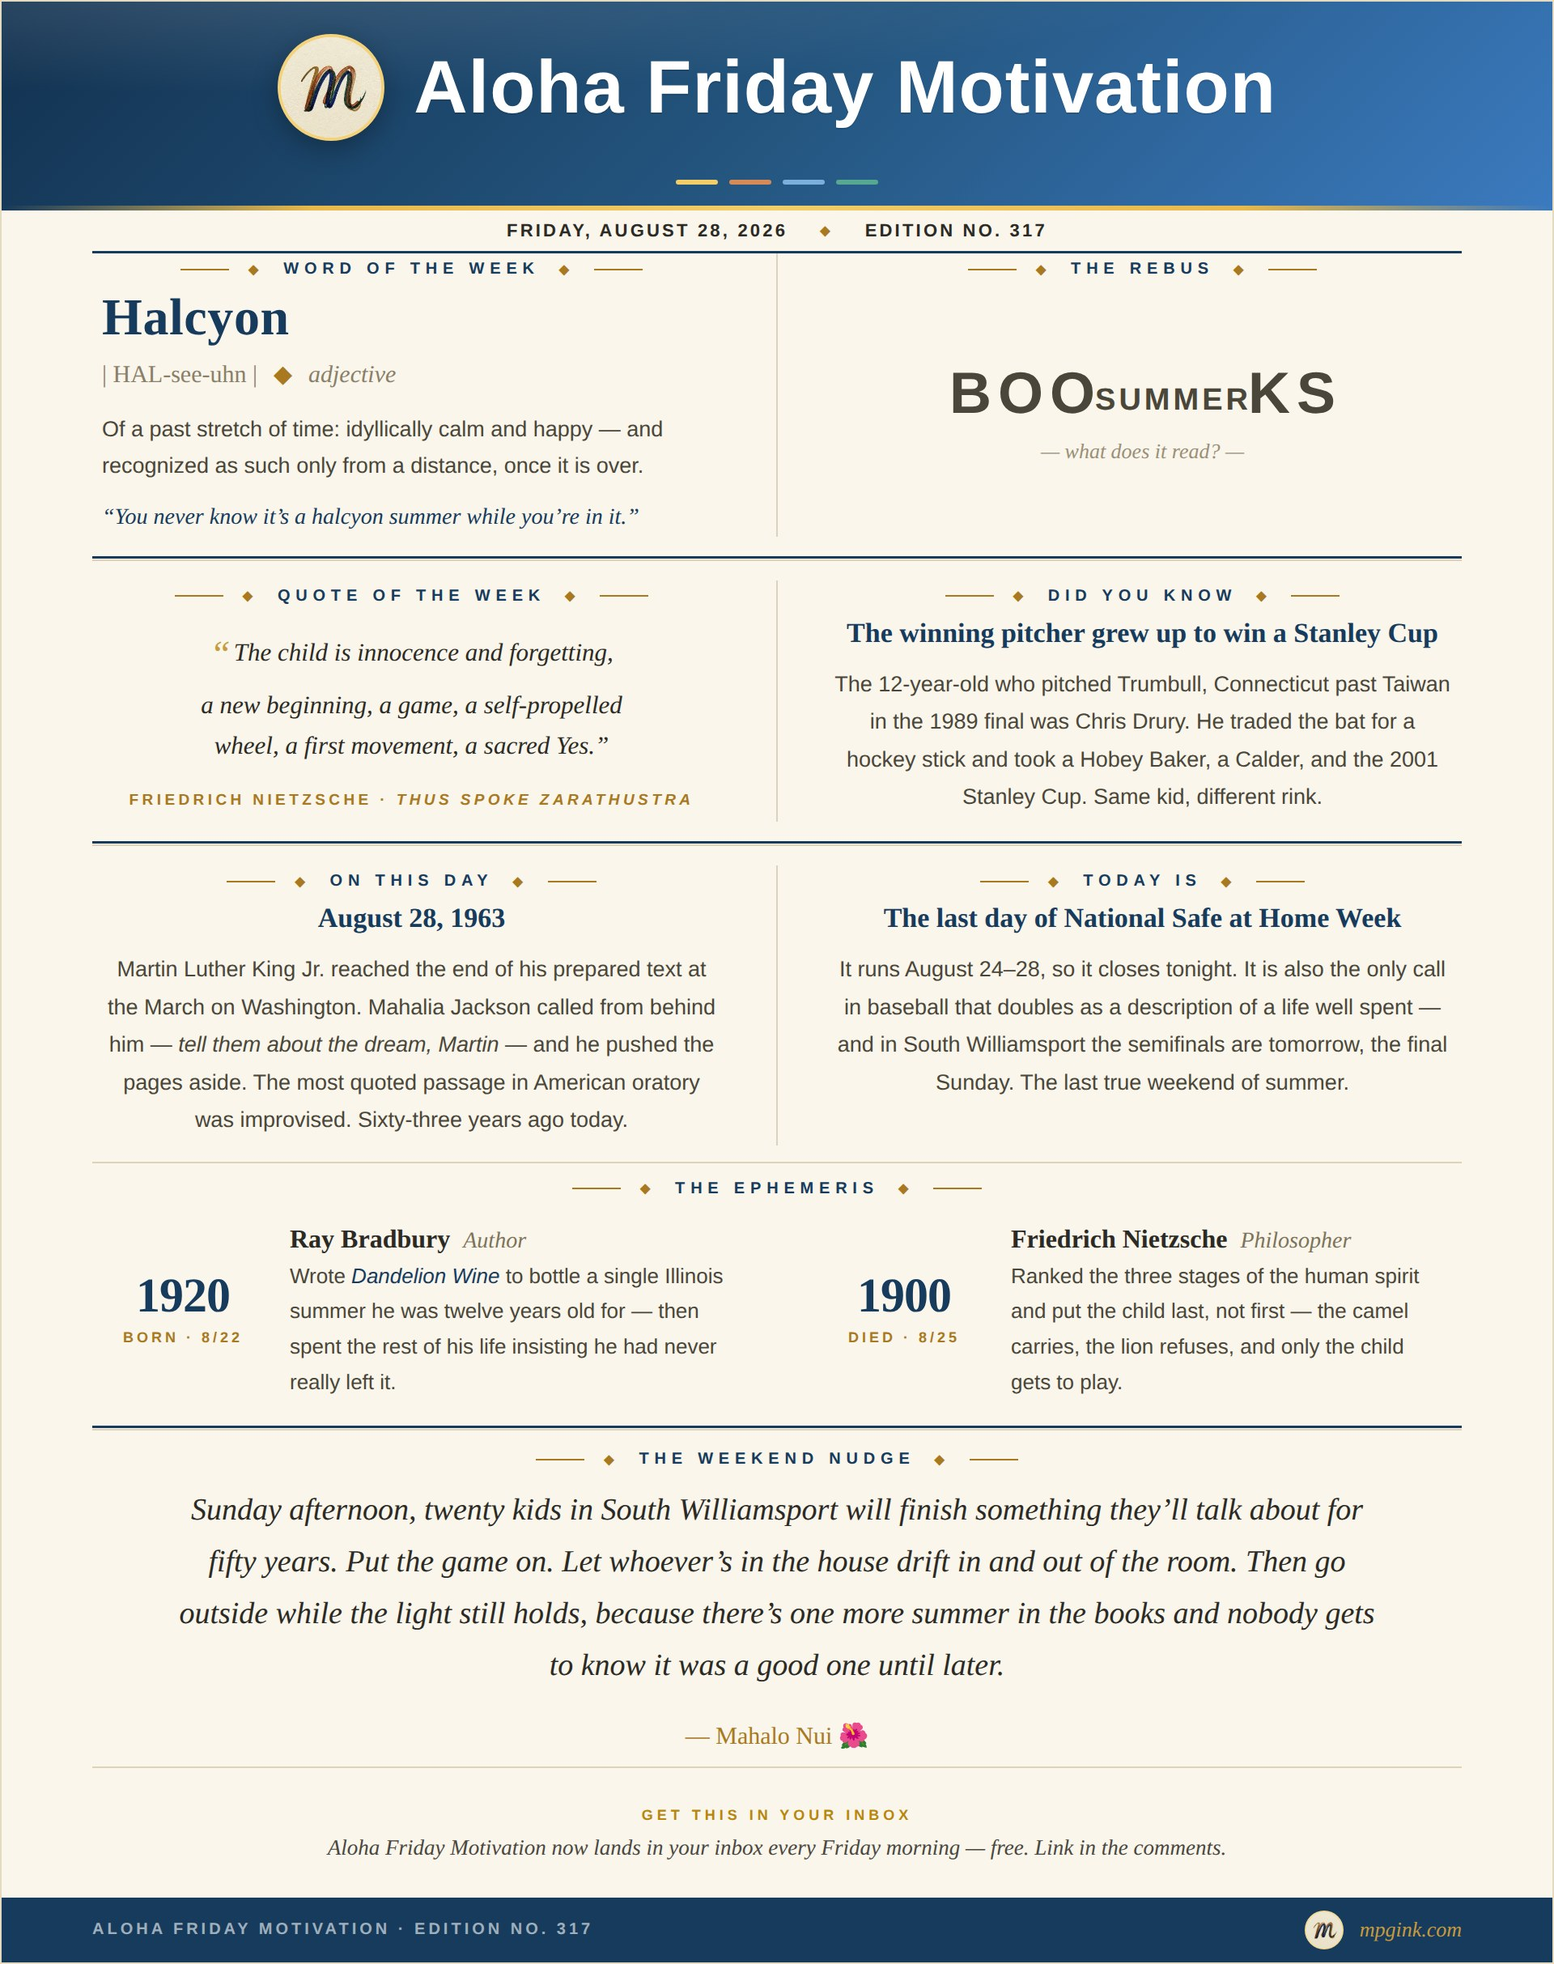
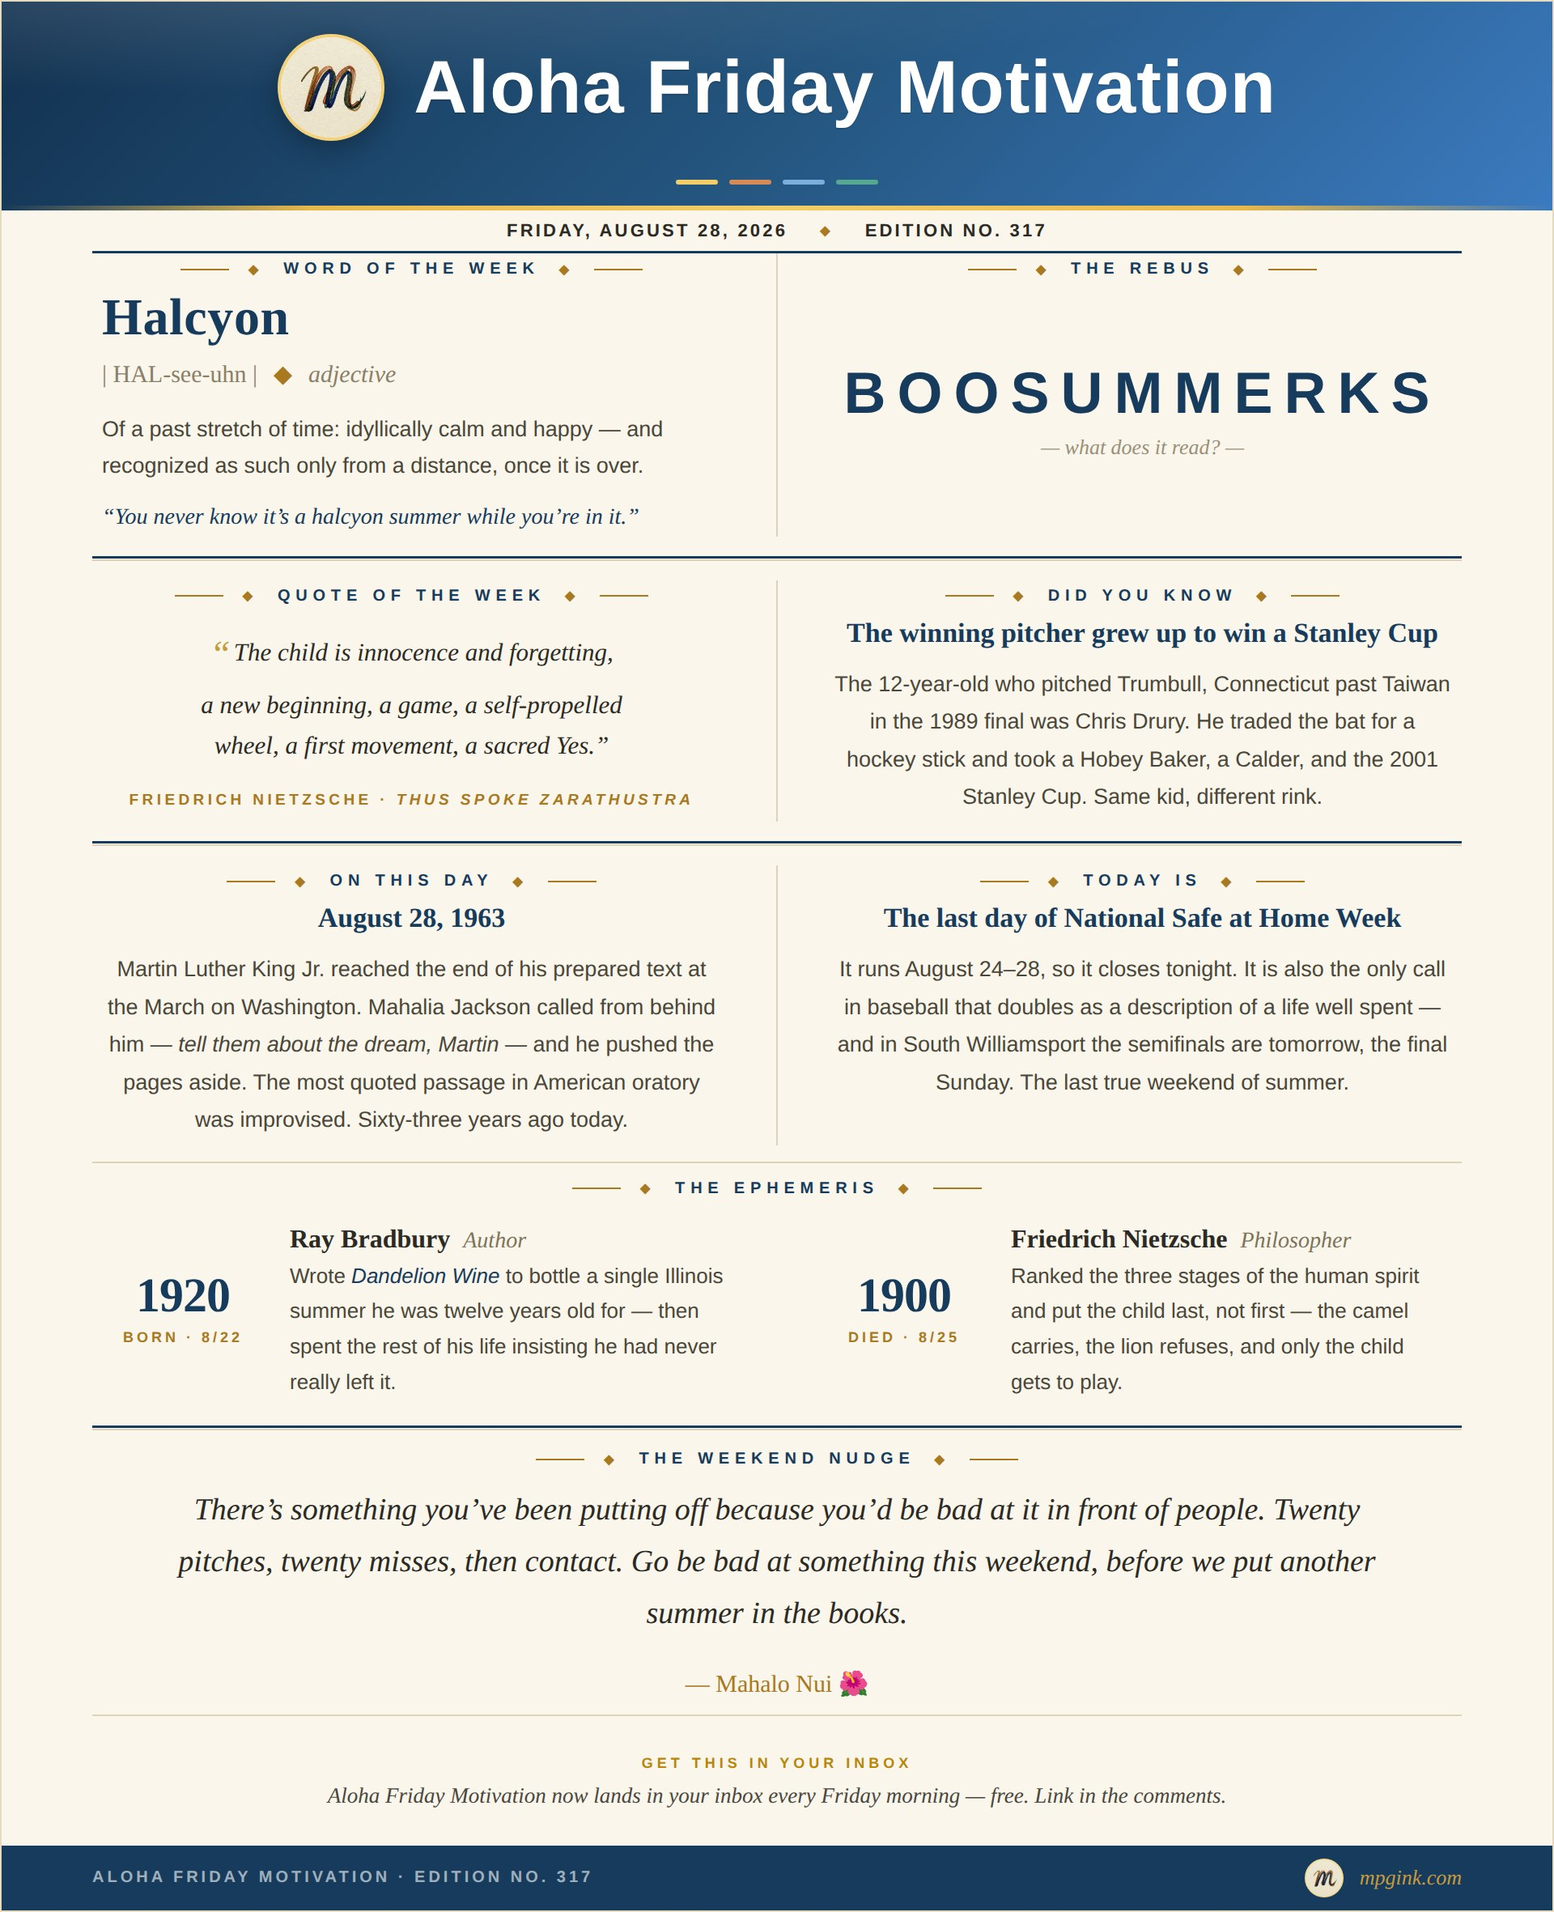
AFM archive: Ed317 revised narrative, teaser and card
Follows the Ed317 revision in the AFM repo (b66a5f1) after Matthew's review.

**Files touched + blast radius**
- afm/content/ed317.md — narrative rebuilt around the all-star tryout anecdote
  recovered from Ed287's full text in Drive
- scripts/afm-editions.json — teaser updated to match the new opening
- afm/ed317.html, newsletter.html — REGENERATED from the manifest, never edited
- images/afm/afm-ed317-card.jpg — re-rendered (new Weekend Nudge, uniform rebus)
- images/afm/thumbs/afm-ed317-thumb.jpg — regenerated

Blast radius is the Ed317 page, its catalog row and its two images. No shared
CSS, nav or footer touched.

**What changed and why**
The Weekend Nudge was rewritten (Matthew cut v1 as corny — it closed on a
fortune-cookie aphorism) and the rebus is now one uniform type size rather than
shrinking the nested word. Full reasoning is in the AFM repo's content log and
session log.

**Verification performed**
- node scripts/check-site.mjs -> PASS (237 HTML pages, 8116 local references,
  signup.html ?src= param intact)
- python3 scripts/make-afm-thumbs.py -> "1 written, 65 up to date"
- Horizontal overflow re-measured on the rebuilt page: afm/ed317.html reports
  0px at both 1280px and 375px
- Confirmed by grep that the new nudge and the rebus answer both render on the
  built page
- Card re-rendered at 1920x2362, exactly matching Ed316's shipped card height

Still not verified: anything on live mpgink.com — the sandbox proxy blocks the
[…]

diff --git a/afm/ed317.html b/afm/ed317.html
@@ -4,19 +4,19 @@
   <meta charset="UTF-8">
   <meta name="viewport" content="width=device-width, initial-scale=1.0">
   <title>AFM #317 — Safe at Home — mpgink</title>
-  <meta name="description" content="I was eight years old the summer a team from down the road beat the world. Thirty-seven years later I still put the games on — and Nietzsche, of all people, finally explained why.">
+  <meta name="description" content="I was eight, watching from a few towns over, when Trumbull beat the world. A few years later I stood in my own batter’s box and missed twenty pitches in a row.">
 
   <!-- Open Graph / Link Preview -->
   <meta property="og:type" content="article">
   <meta property="og:url" content="https://mpgink.com/afm/ed317.html">
   <meta property="og:title" content="AFM #317 — Safe at Home">
-  <meta property="og:description" content="I was eight years old the summer a team from down the road beat the world. Thirty-seven years later I still put the games on — and Nietzsche, of all people, finally explained why.">
+  <meta property="og:description" content="I was eight, watching from a few towns over, when Trumbull beat the world. A few years later I stood in my own batter’s box and missed twenty pitches in a row.">
   <meta property="og:image" content="https://mpgink.com/images/afm/afm-ed317-card.jpg">
 
   <!-- Twitter/X Card -->
   <meta name="twitter:card" content="summary_large_image">
   <meta name="twitter:title" content="AFM #317 — Safe at Home">
-  <meta name="twitter:description" content="I was eight years old the summer a team from down the road beat the world. Thirty-seven years later I still put the games on — and Nietzsche, of all people, finally explained why.">
+  <meta name="twitter:description" content="I was eight, watching from a few towns over, when Trumbull beat the world. A few years later I stood in my own batter’s box and missed twenty pitches in a row.">
   <meta name="twitter:image" content="https://mpgink.com/images/afm/afm-ed317-card.jpg">
 
   <!-- Favicon / home-screen icons -->
@@ -103,18 +103,20 @@
     <div class="afm-paper-body">
       <div class="afm-ed-head">AFM | Safe at Home | #317</div>
 
-      <div class="afm-ed-teaser">I was eight years old the summer a team from down the road beat the world. Thirty-seven years later I still put the games on — and Nietzsche, of all people, finally explained why.</div>
+      <div class="afm-ed-teaser">I was eight, watching from a few towns over, when Trumbull beat the world. A few years later I stood in my own batter’s box and missed twenty pitches in a row.</div>
 <p>Happy Aloha Friday. 🌺</p>
 <p>But first, the shoutout: this one’s for the 317 — Indianapolis, Indiana.</p>
-<p>I was eight years old the summer I found out a kid from Connecticut could beat the world.</p>
-<p>August 1989. Trumbull is a town down the road from Hamden, where I grew up, and that year <a href="https://en.wikipedia.org/wiki/1989_Little_League_World_Series" target="_blank" rel="noopener">Trumbull National</a> went to Williamsport and beat Kaohsiung, Taiwan — a program that had taken the previous three championships and did not lose games like that one. Final, 5–2. Nobody outside Fairfield County thought it was coming.</p>
-<p>I’ve told this story before and I’ll tell it again, because every year when mid-August rolls around I’m driven back, like a line drive, to my youth. I put the games on. For a couple of hours at a stretch I’m eight again, which is the actual product the <a href="https://en.wikipedia.org/wiki/Little_League_World_Series" target="_blank" rel="noopener">Little League World Series</a> sells and nobody advertises.</p>
-<p>Here’s what I notice now that I didn’t notice then. It isn’t only the ferocity — though it’s there, worn on the sleeve, the kind of wanting that adulthood slowly teaches you to keep indoors. It’s what happens right after. A kid strikes out to end a season he waited his whole short life for, and he cries, and then he lines up and shakes twelve hands. The sportsmanship in that tournament is unmatched anywhere in sport, and it is performed almost entirely by twelve-year-olds.</p>
-<p><a href="https://en.wikipedia.org/wiki/Dandelion_Wine" target="_blank" rel="noopener">Ray Bradbury</a> was born this week in 1920. He spent a whole novel trying to bottle a single Illinois summer he was twelve years old for, and then spent the rest of his life insisting he’d never actually left it. That’s the standard nostalgia sets for itself: get back.</p>
-<p><a href="https://en.wikipedia.org/wiki/Thus_Spoke_Zarathustra" target="_blank" rel="noopener">Nietzsche</a> died this week in 1900, and he ruined that framing for me in the best way. He laid out three stages of the spirit — the camel, who carries what he’s given; the lion, who refuses it; and the child, who plays. What gets me is the order. The child is <em>last</em>. Not the thing you start as and lose. The thing you spend the whole climb trying to get back to, and only a few ever do.</p>
-<p>Which means the kids in South Williamsport aren’t the beginning of the story. They’re the end of it. They’re what the camel and the lion are working toward.</p>
-<p>So when I tune in Sunday I don’t think I’m chasing my own childhood, exactly. I think I’m watching twenty kids do the hardest thing on Nietzsche’s list, casually, in cleats, on basic cable — and then go be gracious about it. Then the last out is recorded, the dogpile happens, and that’s another <strong><em>summer in the books</em></strong>.</p>
-<p>Sunday afternoon, twenty kids in South Williamsport will finish something they’ll talk about for fifty years. Put the game on. Let whoever’s in the house drift in and out of the room. Then go outside while the light still holds, because there’s one more summer in the books and nobody gets to know it was a good one until later.</p>
+<p>In 1989, <a href="https://en.wikipedia.org/wiki/1989_Little_League_World_Series" target="_blank" rel="noopener">Trumbull Little League</a> stunned the world. A team of Connecticut kids beat Chinese Taipei — a program that had taken the previous three championships — and etched their names into <a href="https://en.wikipedia.org/wiki/Little_League_World_Series" target="_blank" rel="noopener">Little League World Series</a> history. I was eight, watching from a few towns over, and even then I knew it was bigger than baseball.</p>
+<p>A few years later I stood in my own batter’s box. Not a prodigy, not a star — a kid hoping to belong. I tried out for an all-star team against a pitching machine that did not care about my nerves.</p>
+<p>Twenty pitches. Twenty misses.</p>
+<p>And then, finally, contact. A shallow hit. Maybe two or three in the whole session. I knew walking off that I wasn’t making the team, and I was right. But I keep the twenty-first swing, and I have never once thought about the twenty that came before it as failures. They were the price of the twenty-first.</p>
+<p><a href="https://en.wikipedia.org/wiki/Thus_Spoke_Zarathustra" target="_blank" rel="noopener">Nietzsche</a> died this week in 1900, and he’s the reason I finally understood what I was watching all those Augusts. He laid out three stages of the spirit: the camel, who carries what he’s handed. The lion, who refuses it. And the child, who plays.</p>
+<p>The child is <em>last</em>. Not the thing you start as and lose — the thing you spend the whole climb trying to get back to, and most people never do.</p>
+<p>Which reorders everything. The kids in South Williamsport aren’t at the beginning of the story. They’re at the end of it. They are doing, casually and in cleats, the hardest thing on the list.</p>
+<p><a href="https://en.wikipedia.org/wiki/Dandelion_Wine" target="_blank" rel="noopener">Ray Bradbury</a>, born this week in 1920, spent a whole novel trying to bottle one Illinois summer he was twelve years old for, and the rest of his life insisting he’d never left it. I don’t think he was being nostalgic. I think he was doing the climb.</p>
+<p>And here’s the part I only notice as an adult. It isn’t the ferocity — though it’s there, worn on the sleeve, the kind of wanting adulthood slowly teaches you to keep indoors. It’s what happens right after. A kid strikes out to end a season he waited his whole short life for. He cries. Then he lines up and shakes twelve hands. That grace is unmatched anywhere in sport and it is performed, every August, entirely by twelve-year-olds.</p>
+<p>The final is Sunday. Another <strong><em>summer in the books</em></strong>.</p>
+<p>There’s something you’ve been putting off because you’d be bad at it in front of people. Twenty pitches, twenty misses, then contact. Go be bad at something this weekend, before we put another summer in the books.</p>
 <p>Mahalo Nui. 🌺</p>
 <p><em>— Matthew</em></p>
     </div>

diff --git a/afm/content/ed317.md b/afm/content/ed317.md
@@ -4,23 +4,27 @@ Happy Aloha Friday. 🌺
 
 But first, the shoutout: this one’s for the 317 — Indianapolis, Indiana.
 
-I was eight years old the summer I found out a kid from Connecticut could beat the world.
+In 1989, [Trumbull Little League](https://en.wikipedia.org/wiki/1989_Little_League_World_Series) stunned the world. A team of Connecticut kids beat Chinese Taipei — a program that had taken the previous three championships — and etched their names into [Little League World Series](https://en.wikipedia.org/wiki/Little_League_World_Series) history. I was eight, watching from a few towns over, and even then I knew it was bigger than baseball.
 
-August 1989. Trumbull is a town down the road from Hamden, where I grew up, and that year [Trumbull National](https://en.wikipedia.org/wiki/1989_Little_League_World_Series) went to Williamsport and beat Kaohsiung, Taiwan — a program that had taken the previous three championships and did not lose games like that one. Final, 5–2. Nobody outside Fairfield County thought it was coming.
+A few years later I stood in my own batter’s box. Not a prodigy, not a star — a kid hoping to belong. I tried out for an all-star team against a pitching machine that did not care about my nerves.
 
-I’ve told this story before and I’ll tell it again, because every year when mid-August rolls around I’m driven back, like a line drive, to my youth. I put the games on. For a couple of hours at a stretch I’m eight again, which is the actual product the [Little League World Series](https://en.wikipedia.org/wiki/Little_League_World_Series) sells and nobody advertises.
+Twenty pitches. Twenty misses.
 
-Here’s what I notice now that I didn’t notice then. It isn’t only the ferocity — though it’s there, worn on the sleeve, the kind of wanting that adulthood slowly teaches you to keep indoors. It’s what happens right after. A kid strikes out to end a season he waited his whole short life for, and he cries, and then he lines up and shakes twelve hands. The sportsmanship in that tournament is unmatched anywhere in sport, and it is performed almost entirely by twelve-year-olds.
+And then, finally, contact. A shallow hit. Maybe two or three in the whole session. I knew walking off that I wasn’t making the team, and I was right. But I keep the twenty-first swing, and I have never once thought about the twenty that came before it as failures. They were the price of the twenty-first.
 
-[Ray Bradbury](https://en.wikipedia.org/wiki/Dandelion_Wine) was born this week in 1920. He spent a whole novel trying to bottle a single Illinois summer he was twelve years old for, and then spent the rest of his life insisting he’d never actually left it. That’s the standard nostalgia sets for itself: get back.
+[Nietzsche](https://en.wikipedia.org/wiki/Thus_Spoke_Zarathustra) died this week in 1900, and he’s the reason I finally understood what I was watching all those Augusts. He laid out three stages of the spirit: the camel, who carries what he’s handed. The lion, who refuses it. And the child, who plays.
 
-[Nietzsche](https://en.wikipedia.org/wiki/Thus_Spoke_Zarathustra) died this week in 1900, and he ruined that framing for me in the best way. He laid out three stages of the spirit — the camel, who carries what he’s given; the lion, who refuses it; and the child, who plays. What gets me is the order. The child is *last*. Not the thing you start as and lose. The thing you spend the whole climb trying to get back to, and only a few ever do.
+The child is *last*. Not the thing you start as and lose — the thing you spend the whole climb trying to get back to, and most people never do.
 
-Which means the kids in South Williamsport aren’t the beginning of the story. They’re the end of it. They’re what the camel and the lion are working toward.
+Which reorders everything. The kids in South Williamsport aren’t at the beginning of the story. They’re at the end of it. They are doing, casually and in cleats, the hardest thing on the list.
 
-So when I tune in Sunday I don’t think I’m chasing my own childhood, exactly. I think I’m watching twenty kids do the hardest thing on Nietzsche’s list, casually, in cleats, on basic cable — and then go be gracious about it. Then the last out is recorded, the dogpile happens, and that’s another ***summer in the books***.
+[Ray Bradbury](https://en.wikipedia.org/wiki/Dandelion_Wine), born this week in 1920, spent a whole novel trying to bottle one Illinois summer he was twelve years old for, and the rest of his life insisting he’d never left it. I don’t think he was being nostalgic. I think he was doing the climb.
 
-Sunday afternoon, twenty kids in South Williamsport will finish something they’ll talk about for fifty years. Put the game on. Let whoever’s in the house drift in and out of the room. Then go outside while the light still holds, because there’s one more summer in the books and nobody gets to know it was a good one until later.
+And here’s the part I only notice as an adult. It isn’t the ferocity — though it’s there, worn on the sleeve, the kind of wanting adulthood slowly teaches you to keep indoors. It’s what happens right after. A kid strikes out to end a season he waited his whole short life for. He cries. Then he lines up and shakes twelve hands. That grace is unmatched anywhere in sport and it is performed, every August, entirely by twelve-year-olds.
+
+The final is Sunday. Another ***summer in the books***.
+
+There’s something you’ve been putting off because you’d be bad at it in front of people. Twenty pitches, twenty misses, then contact. Go be bad at something this weekend, before we put another summer in the books.
 
 Mahalo Nui. 🌺
 
